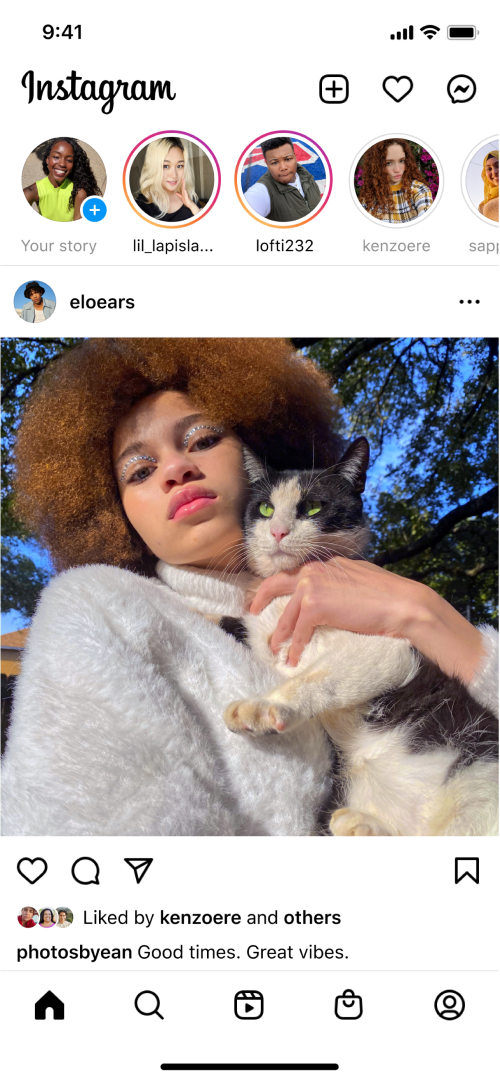
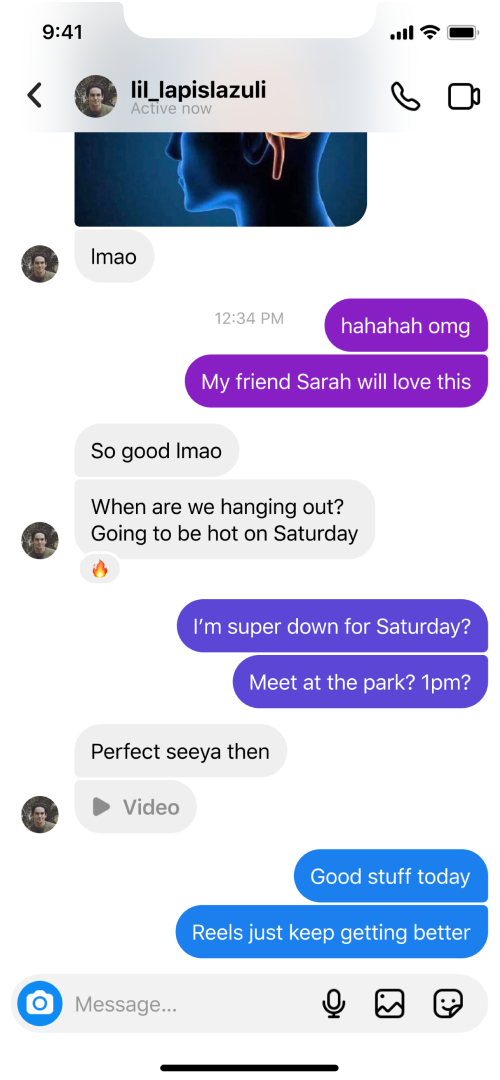
rotate phone images

diff --git a/frontend/components/login/login.jsx b/frontend/components/login/login.jsx
@@ -11,6 +11,9 @@ export class Login extends React.Component{
         this.update = this.update.bind(this)
         this.hidden = true
         this.flipHidden = this.flipHidden.bind(this)
+        this.timer
+        this.phone = 0;
+        this.changePhone = this.changePhone.bind(this)
     }
 
     handleSubmit(e){
@@ -51,7 +54,17 @@ export class Login extends React.Component{
         this.hidden = !this.hidden
         this.forceUpdate()
     }
+    
+    componentDidMount(){
+        this.changePhone()
+    }
 
+    async changePhone(){
+        await this.timeout(3000)
+        this.phone = (this.phone + 1) % 4
+        this.forceUpdate()
+        this.changePhone()
+    }
 
     render(){
         if (this.props.session !== null){
@@ -65,6 +78,11 @@ export class Login extends React.Component{
             if (this.state.username.length && this.state.password.length > 5) {
                 disabled = false;
             }
+            let phoneURL;
+            if (this.phone === 0) {phoneURL = window.phoneURL_0}
+            if (this.phone === 1) {phoneURL = window.phoneURL_1}
+            if (this.phone === 2) {phoneURL = window.phoneURL_2}
+            if (this.phone === 3) {phoneURL = window.phoneURL_3}
             return (
                 <div className="signInGrid">
 
@@ -101,10 +119,14 @@ export class Login extends React.Component{
 
                         <p className="getTheApp">Get the app.</p>
                         <div className="downloadLinks">
-                            <img src="appleURL" alt="apple" />
-                            <img src="androidURL" alt="android" />
+                            <img className="appleLogo" src={window.appleURL} alt="apple" />
+                            <img className="androidLogo" src={window.androidURL} alt="android" />
                         </div>
 
+                    </div>
+
+                    <div className="imageColumn">
+                        <img className="phoneImg" src={phoneURL} alt="phone" />
                     </div>
                         
 

diff --git a/app/assets/stylesheets/application.scss b/app/assets/stylesheets/application.scss
@@ -40,11 +40,12 @@ body {
 
 * {
   background-color: rgb(249, 249, 249);
+  border-radius: 4px;
 }
 
 .signInGrid {
   display: grid;
-  grid-template-columns: 1fr 380px 350px 1fr;
+  grid-template-columns: 1fr 497px 350px 1fr;
   grid-template-rows: 64px 780px 1fr;
   justify-content: center;
 }
@@ -243,4 +244,45 @@ button.showHideButton {
 
 .createAccountLink {
   margin-left: 8px;
+}
+
+.getTheApp {
+  text-align: center;
+}
+
+.downloadLinks {
+  text-align: center;
+}
+
+.downloadLinks img {
+  display: inline-block;
+  width: auto;
+  max-height: 40px;
+}
+
+.appleLogo {
+  margin-right: 8px;
+}
+
+.imageColumn {
+  grid-column-start: 2;
+  grid-column-end: 3;
+  grid-row-start: 2;
+  grid-row-end: 3;
+  place-self: stretch stretch;
+  background-image: image-url('phone_background.png');
+  background-size: 465px, auto;
+  background-repeat: no-repeat;
+  position: relative;
+}
+
+.phoneImg {
+  transition-property: all;
+  transition-duration: .7s;
+  height: auto;
+  width: 250px;
+  position: absolute;
+  top: 26px;
+  right: 88px;
+  background-color: rgba(0, 0, 0, 0);
 }

diff --git a/frontend/components/footer/footer.jsx b/frontend/components/footer/footer.jsx
@@ -1,0 +1,5 @@
+export const footer = () => (
+  <div className="footer">
+    
+  </div>
+)
